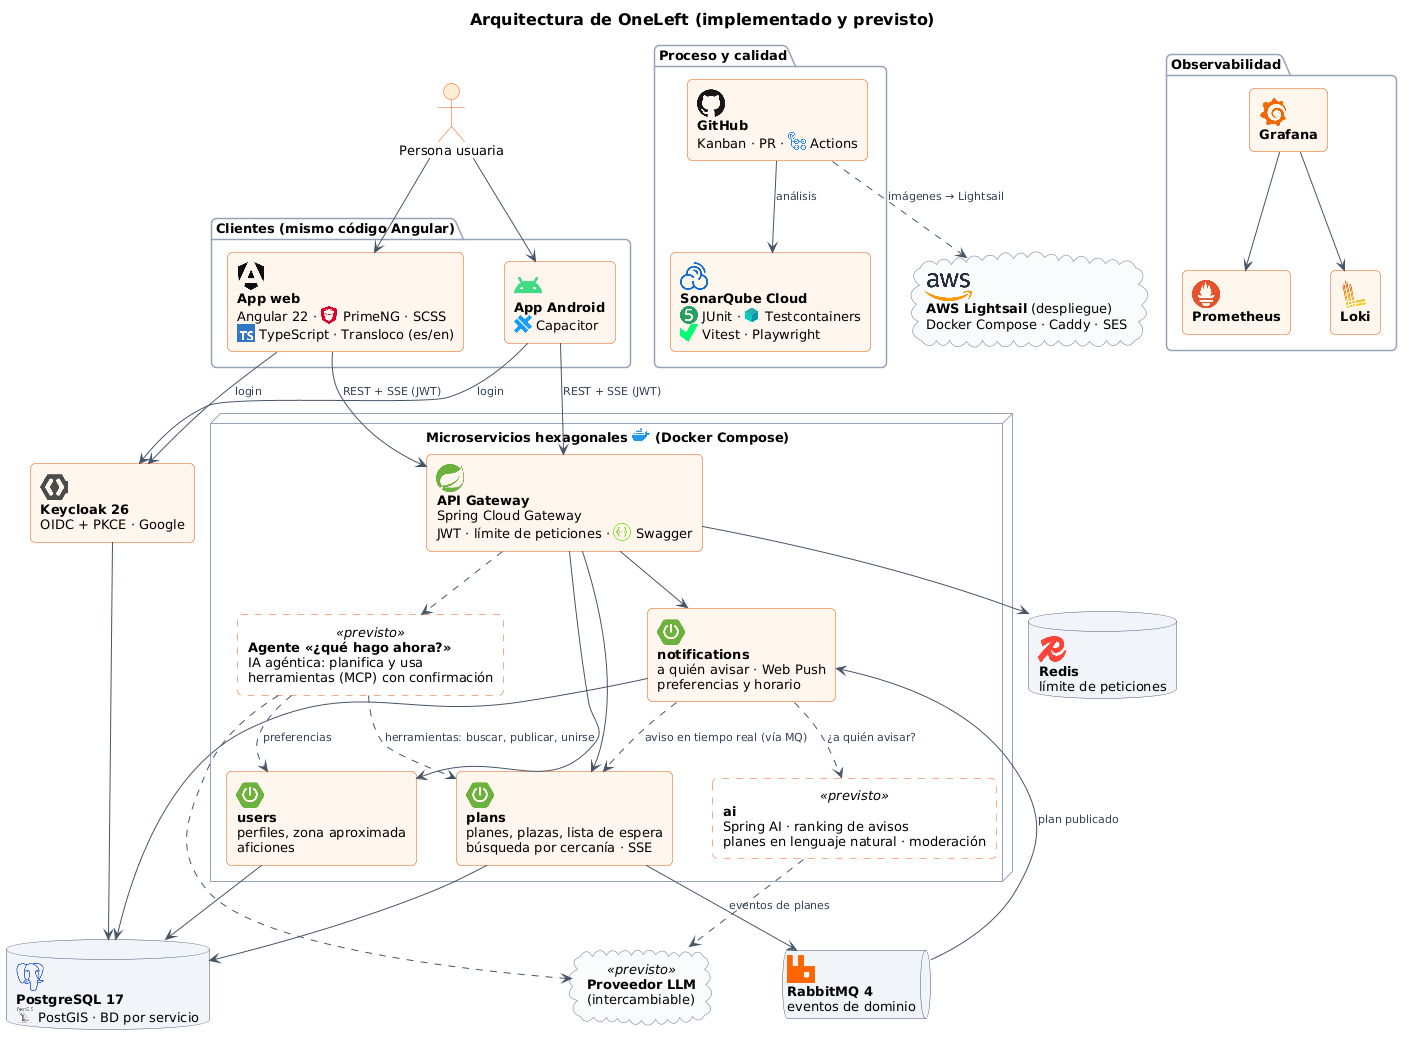
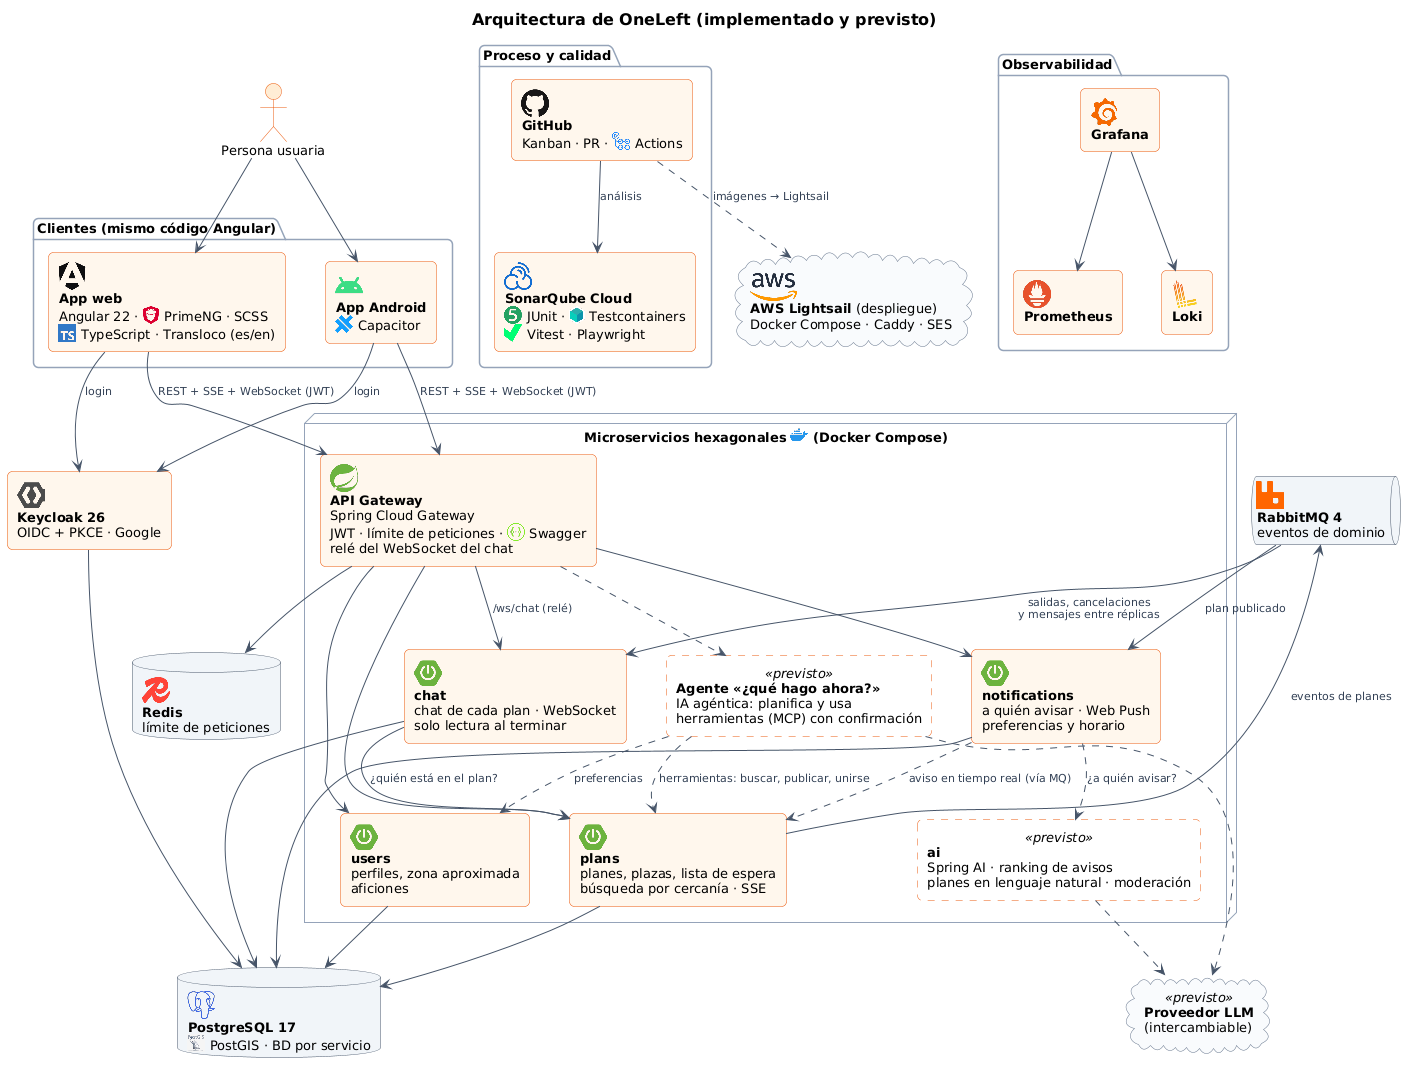
docs(process): HU-008 plan chat #91
Entry 34 with the decisions (chat service, WebSocket relay in the gateway,
token as subprotocol, membership from plans, closing and purge), tests and
incidents; sequence diagram, data diagram of the chat database (draw.io),
the implemented architecture with the chat, and the screenshots of a real
conversation between Ana and Lucía (tools/capture-chat.mjs).

diff --git a/proceso/34-hu008-chat-del-plan.md b/proceso/34-hu008-chat-del-plan.md
@@ -1,0 +1,89 @@
+# 34 · Sprint 13: HU-008 Chat del plan
+
+**Fecha:** 12/10/2026 · **Sprint:** 13 (09–15/10/2026)
+
+## 1. Planificación
+
+| Issue | Tipo | MoSCoW | Puntos | Resultado |
+|---|---|---|---|---|
+| backend#11 · HU-008 Chat del plan | Historia | Should | 13 | PR #114 |
+| infra#56 · El servicio chat en Docker Compose (sub-issue) | Tarea | Should | 1 | PR #57 |
+| frontend#100 · Chat del plan en la web y la app (sub-issue) | Historia | Should | 5 | PR #101 |
+| frontend#102 · Un punto de encuentro escrito a mano no se podía publicar | Bug | Must | 1 | PR #103 |
+| docs#91 · Documentación (sub-issue) | Documentación | Should | 1 | esta entrada |
+
+**Objetivo:** que quienes van a un plan se coordinen sin salir de la app («¿quién trae bolas?», «llego por la otra
+puerta»). Solo el organizador y los participantes ven el chat, en tiempo real con WebSockets, y se cierra cuando el
+plan termina.
+
+## 2. Decisiones
+
+| Decisión | Motivo |
+|---|---|
+| Un **microservicio `chat`** con su base de datos, como preveía el anteproyecto | Si el chat falla, se sigue publicando y uniéndose a planes (RNF-06): no es una dependencia del gateway |
+| **El gateway hace de relé del WebSocket** (`/ws/chat`) | Spring Cloud Gateway en su versión WebMVC no reenvía WebSockets. Las alternativas eran SSE + REST (no cumplía el criterio) o conectar el navegador directamente al chat (rompía la entrada única: token, CORS y límites por duplicado). El gateway acepta la conexión, valida el token como cualquier petición y abre otra con el chat |
+| El token viaja en el **subprotocolo** (`Sec-WebSocket-Protocol: oneleft.bearer, <token>`) | El navegador no puede poner `Authorization` en un WebSocket, y en la URL acabaría en logs. El gateway responde solo `oneleft.bearer` |
+| **Quién está en el plan se pregunta a `plans`** al abrir el chat, con el token de la persona | Siempre es el grupo real, también en los planes publicados antes de que existiera el chat; sin copiar la lista de participantes en otra base de datos |
+| Mientras se está conectado, `plan.left` y `plan.cancelled` llegan por **RabbitMQ** | Quien sale del plan pierde la conexión (código 4403) y un plan cancelado deja el chat en solo lectura (4409) |
+| Los mensajes llegan a **todas las réplicas** por el exchange `oneleft.chat` (una cola anónima por réplica) | Ana puede estar conectada a una réplica y Lucía a otra |
+| **Solo lectura** desde `endsAt` (inicio + 3 h, HU-007); los mensajes se **borran 24 h después** | «Se cierra tras la caducidad del plan»; el anteproyecto preveía purgar los mensajes. `plans` expone ahora `endsAt` para no repetir la regla |
+| Mensajes de 1 a 500 caracteres y como mucho **10 cada 10 s** por conexión | El límite del gateway solo ve la conexión, no los mensajes que viajan por ella |
+| La web reconecta sola con esperas crecientes (de 1 s a 30 s), salvo cuando el chat cierra para siempre | Una caída de red no deja el chat muerto, y quien ya no está en el plan no reintenta |
+| Los mensajes, en una lista con `role="log"` | El lector de pantalla los anuncia según llegan |
+
+![Secuencia de un mensaje del chat](../diagramas/secuencia/35-secuencia-chat-plan.png)
+
+*Figura 120. Abrir el chat, escribir y salir del plan: el relé del gateway, la consulta a `plans`, la base de datos
+del chat y el reparto entre réplicas. Fuente:
+[`35-secuencia-chat-plan.puml`](../diagramas/secuencia/src/35-secuencia-chat-plan.puml).*
+
+![Base de datos del chat](../diagramas/datos/36-modelo-chat.png)
+
+*Figura 121. La base de datos `chat`: una tabla de mensajes sin claves foráneas, porque el plan y la persona viven en
+otros servicios. Fuente: [`36-modelo-chat.drawio`](../diagramas/datos/src/36-modelo-chat.drawio).*
+
+![Arquitectura con el chat](../diagramas/componentes/30-arquitectura-implementada-y-prevista.png)
+
+*Figura 122. La arquitectura implementada, ya con el servicio `chat` y el relé del WebSocket en el gateway. Fuente:
+[`30-arquitectura-implementada-y-prevista.puml`](../diagramas/componentes/src/30-arquitectura-implementada-y-prevista.puml).*
+
+## 3. En la app
+
+![El chat del plan](../capturas/app-web/92-hu008-chat-del-plan.png)
+
+*Figura 123. Ana publica un pádel y Lucía se apunta: el detalle le ofrece «Chat del plan». Las dos lo abren y cada
+mensaje aparece al momento en la otra pantalla, a través del gateway, el servicio de chat y RabbitMQ, en el stack local
+real. Capturas generadas con [`tools/capture-chat.mjs`](../tools/capture-chat.mjs).*
+
+## 4. Pruebas
+
+- **Dominio y aplicación** (`PlanChatTest`, `ChatServiceTest`): miembros, solo lectura al terminar o cancelar,
+  longitud del texto, historial por páginas y purga.
+- **Integración del chat** (`ChatIntegrationTest`): conexiones WebSocket reales, PostgreSQL y RabbitMQ en contenedores
+  y `plans` simulado con WireMock. Dos personas hablan en tiempo real; quien no está en el plan no conecta (403) ni lee;
+  plan inexistente (404) y `plans` caído (503); chat de solo lectura; mensajes vacíos o en ráfaga; salida y cancelación
+  por RabbitMQ; purga a las 24 h. Los tests borran sus mensajes al terminar.
+- **Gateway:** el token se toma del subprotocolo solo en `/ws/chat` (`ChatBearerTokenResolverTest`); el relé pasa los
+  mensajes y los cierres en los dos sentidos y traduce un handshake rechazado a 4403, 4404, 4409 o 4503
+  (`ChatRelayHandlerTest`); sin token válido el handshake no pasa de Spring Security (`ChatRelaySecurityTest`).
+- **Web:** página (historial, tiempo real sin duplicados, envío con Enter sin recargar, sin conexión, errores, solo
+  lectura, cancelado, mensajes anteriores), socket (URL, subprotocolo, reconexión y cierres definitivos) y botón en el
+  detalle. **E2E** (`chat.e2e.ts`, es y en): el plan, el historial y el WebSocket se responden en el navegador
+  (`routeWebSocket`), así que no necesita el servicio ni crea datos.
+- **De punta a punta en local:** con el stack reconstruido, Ana y Lucía se escriben a través del gateway (figura 123).
+
+## 5. Incidencias
+
+- **Enter recargaba la página.** El formulario del chat no tenía `[formGroup]`: con solo `ReactiveFormsModule`, Enter
+  hacía el envío nativo del navegador. Los tests unitarios llamaban al método directamente y no lo vieron; lo encontró
+  el E2E, y ahora hay un test que envía el formulario.
+- **El token de prueba no era un token.** En los tests de integración, `test:<id>:Lucía` no es un Bearer válido
+  (RFC 6750 no admite `:` ni tildes) y Spring respondía 401. El nombre viaja ahora en Base64URL.
+- **Un punto de encuentro escrito a mano no se podía publicar** (frontend#102). Al preparar estas capturas, publicar
+  escribiendo el sitio daba «Revisa los campos marcados». Con `optionValue="name"`, PrimeNG leía `name` también del
+  texto escrito, una cadena, y dejaba el campo vacío: un error de HU-071 que el E2E de la CI ya mostraba y se atribuyó a
+  las imágenes de `pre` ([entrada 33](33-hu071-sugerir-sitios.md)). El valor es ahora el texto escrito o el nombre de
+  la sugerencia, con un test que escribe en el campo real.
+- **El E2E de la CI y `pre`.** El recorrido del chat no depende de `pre` porque simula el WebSocket, pero el stack de
+  extremo a extremo de la CI aún no levanta el servicio: al promocionar `dev` a `pre` habrá que añadir `chat` a
+  `e2e/compose.e2e.yaml`.

diff --git a/proceso/README.md b/proceso/README.md
@@ -38,6 +38,7 @@ implementación y gestión del proyecto de la memoria.
 | 09/10/2026 | Sprint 13 | [31 · HU-040 Recordatorio y «voy de camino / llego tarde»](31-hu040-voy-de-camino.md) |
 | 11/10/2026 | Sprint 12 | [32 · La app Android verificada en el emulador](32-app-android-verificada.md) |
 | 11/10/2026 | Sprint 13 | [33 · HU-071 Sugerir sitios cercanos al escribir el punto de encuentro](33-hu071-sugerir-sitios.md) |
+| 12/10/2026 | Sprint 13 | [34 · HU-008 Chat del plan](34-hu008-chat-del-plan.md) |
 
 ## Convenciones
 
